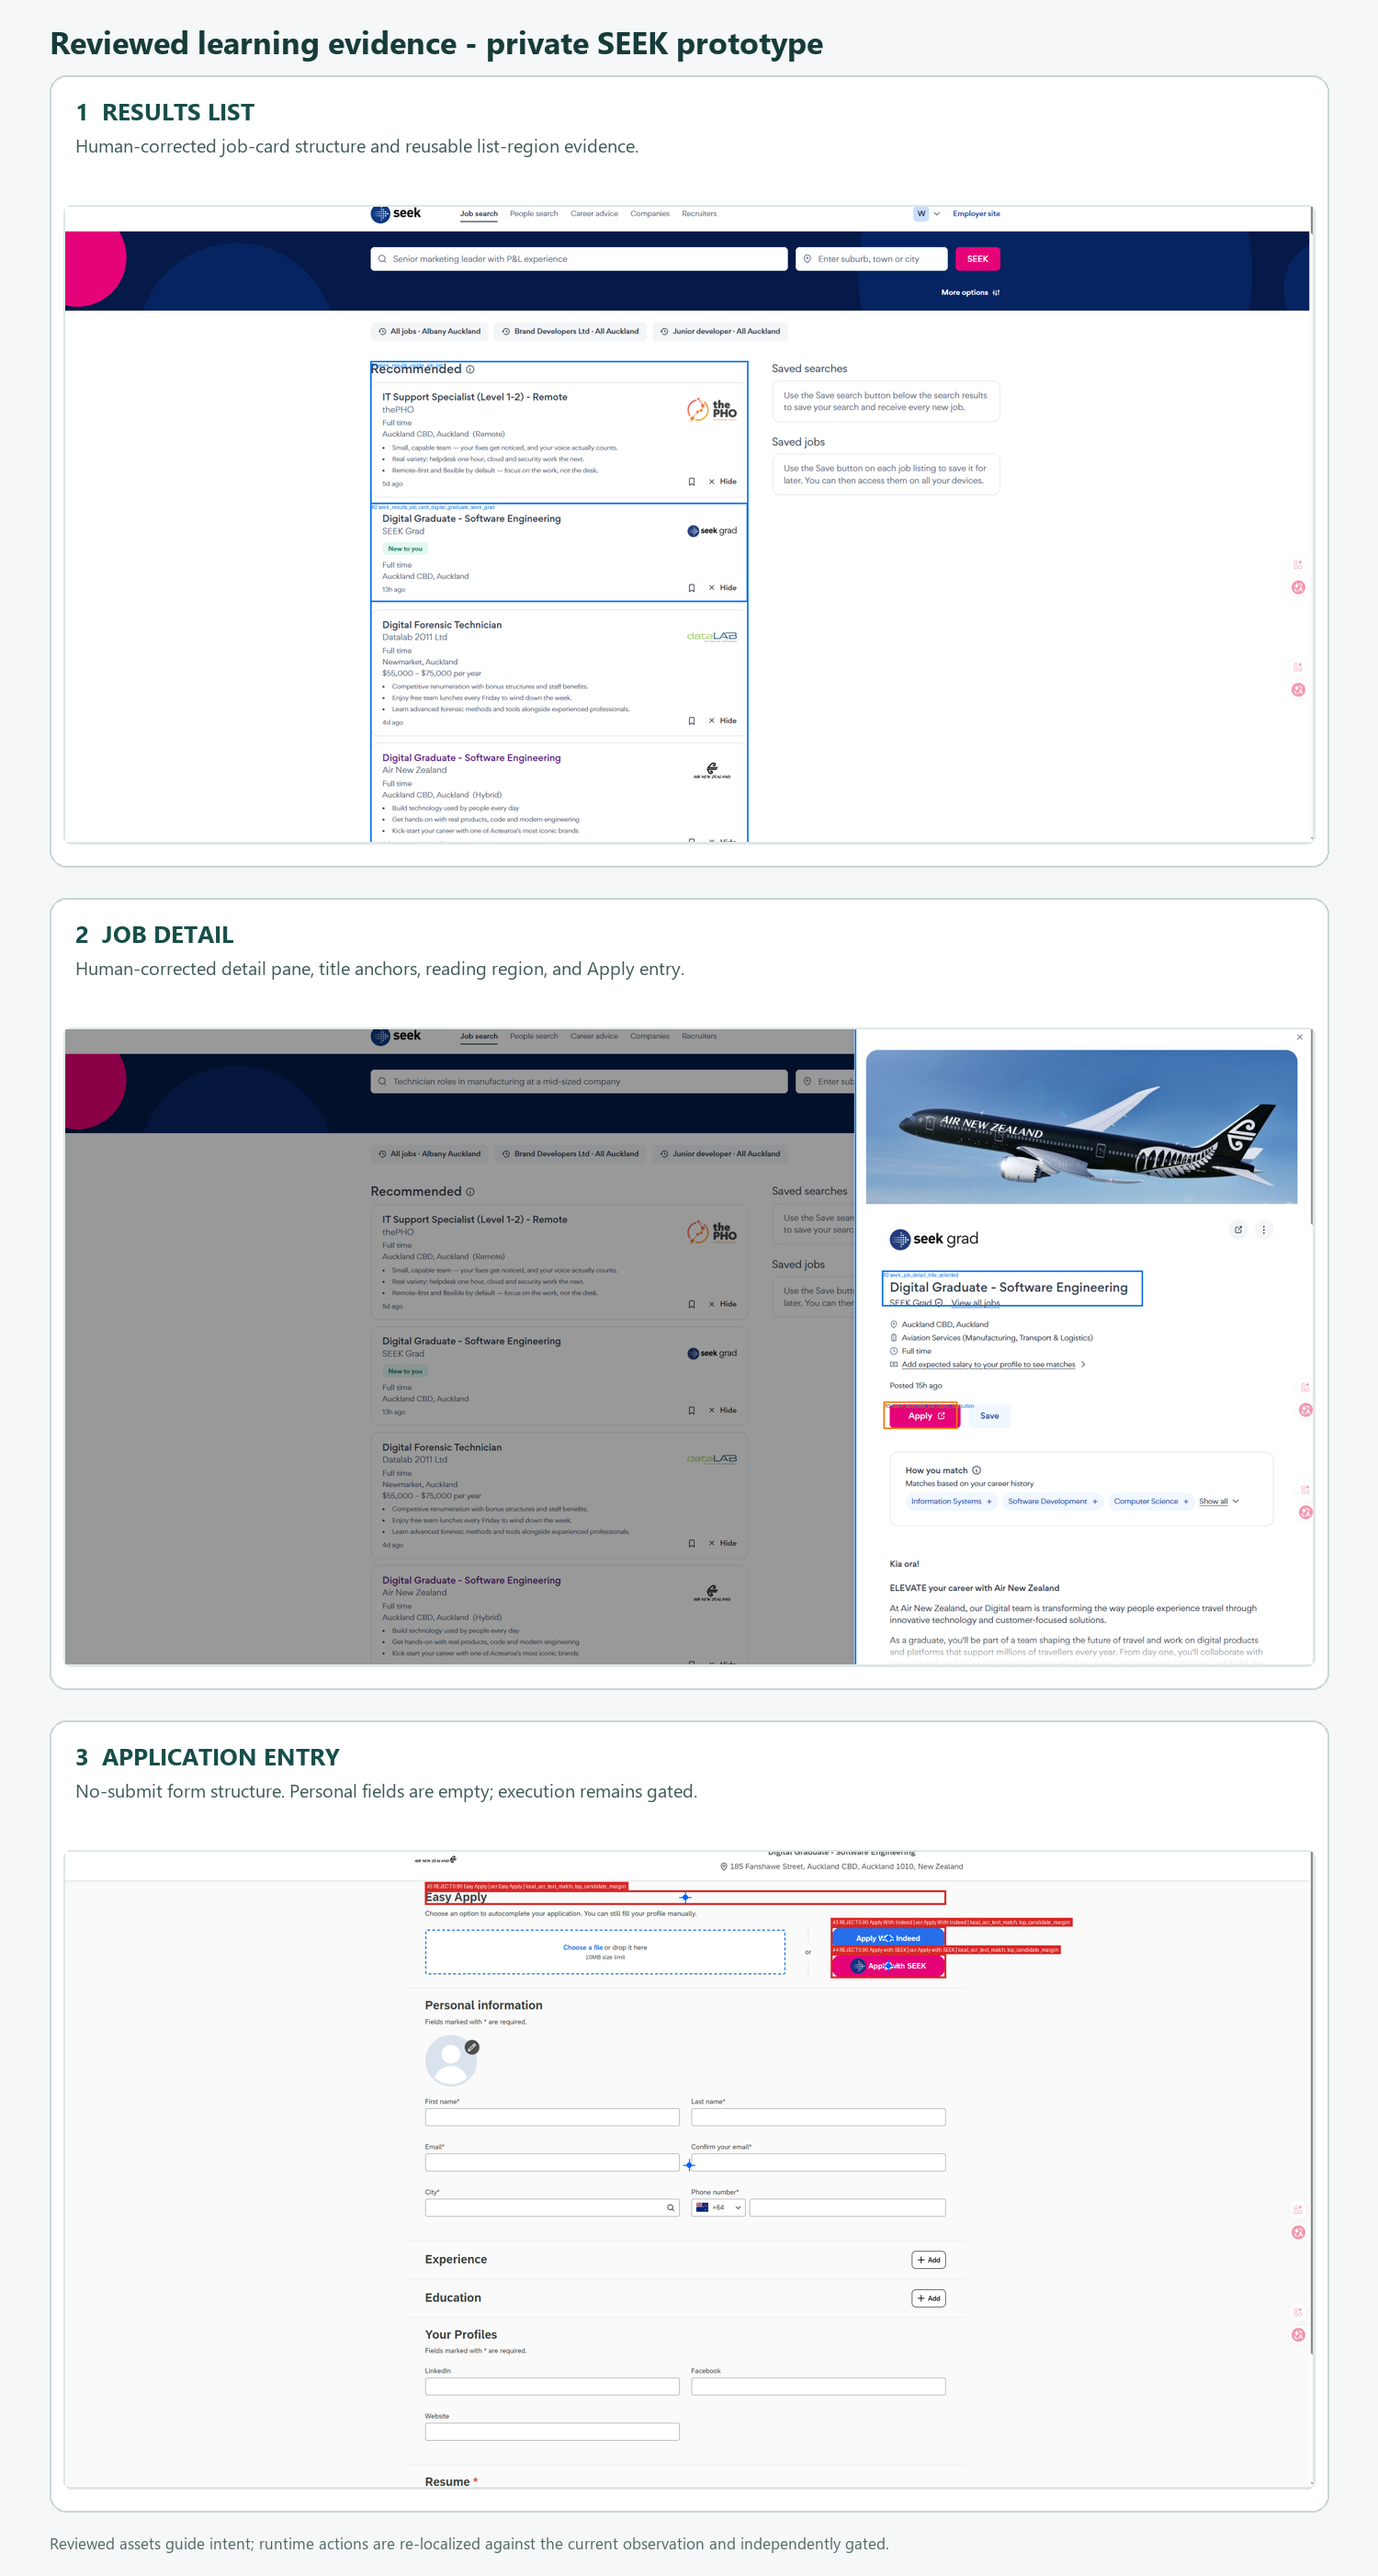
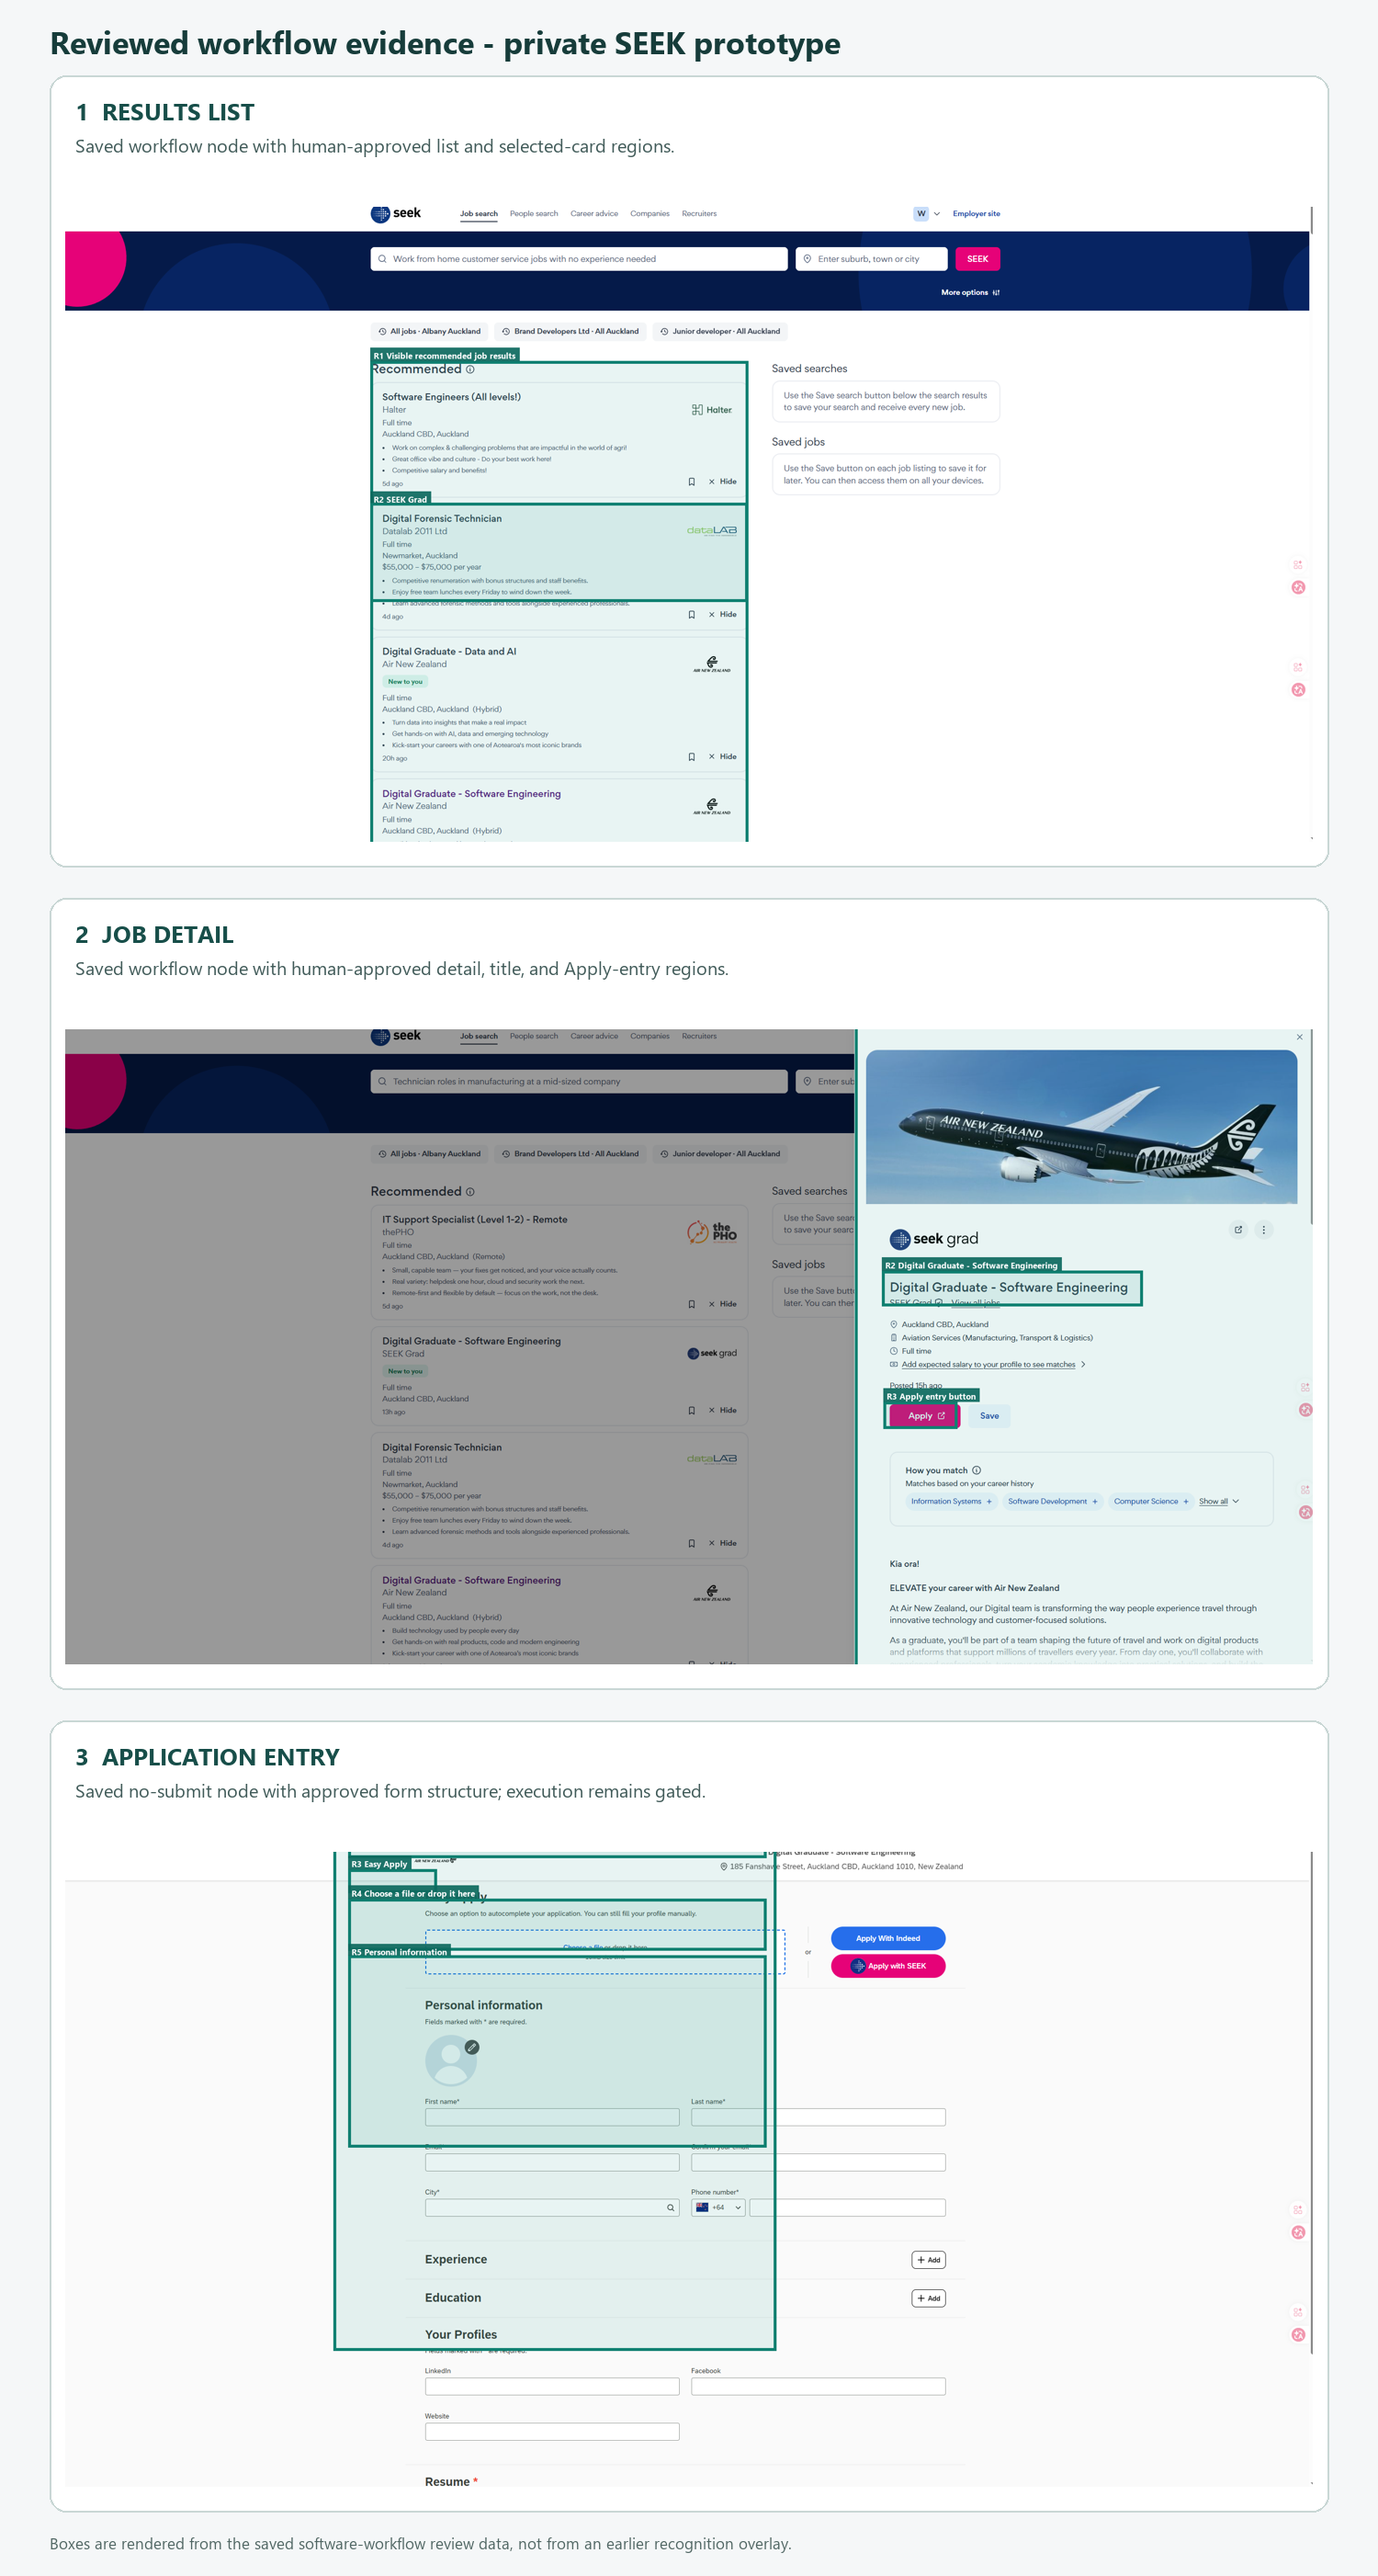
docs: use reviewed workflow evidence

diff --git a/README.md b/README.md
@@ -120,7 +120,7 @@ This is an experimental OSS baseline, not a production automation product. The b
 
 This is not the reproducible demo shipped in this repository.
 
-The image below is a sanitized showcase of human-corrected learning evidence from a larger private Windows GUI agent prototype. It shows three saved SEEK interface states: a results list, a selected job detail, and the no-submit application entry. These are reviewed interface assets, not a recording of an autonomous run and not execution authorization.
+The image below is a sanitized showcase rendered from the private prototype's saved, human-approved software workflow. It shows the workflow's three reviewed SEEK interface nodes: a results list, a selected job detail, and the no-submit application entry. The boxes come from each node's current reviewed regions rather than an earlier recognition overlay. These reviewed interface assets are not a recording of an autonomous run and are not execution authorization.
 
 ![Reviewed learning evidence from the private SEEK prototype](docs/private-prototype-reviewed-learning-evidence.png)
 
